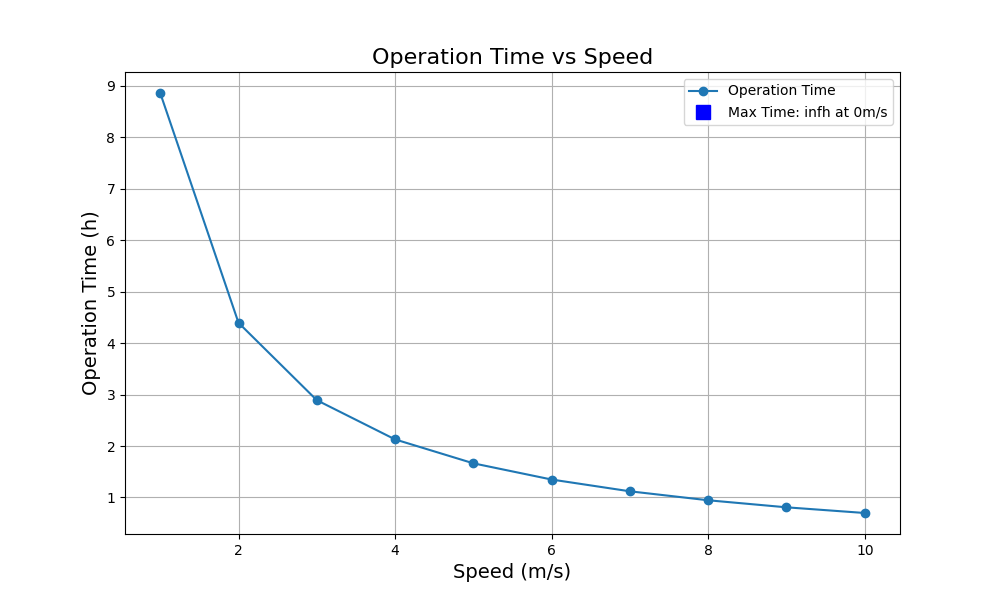
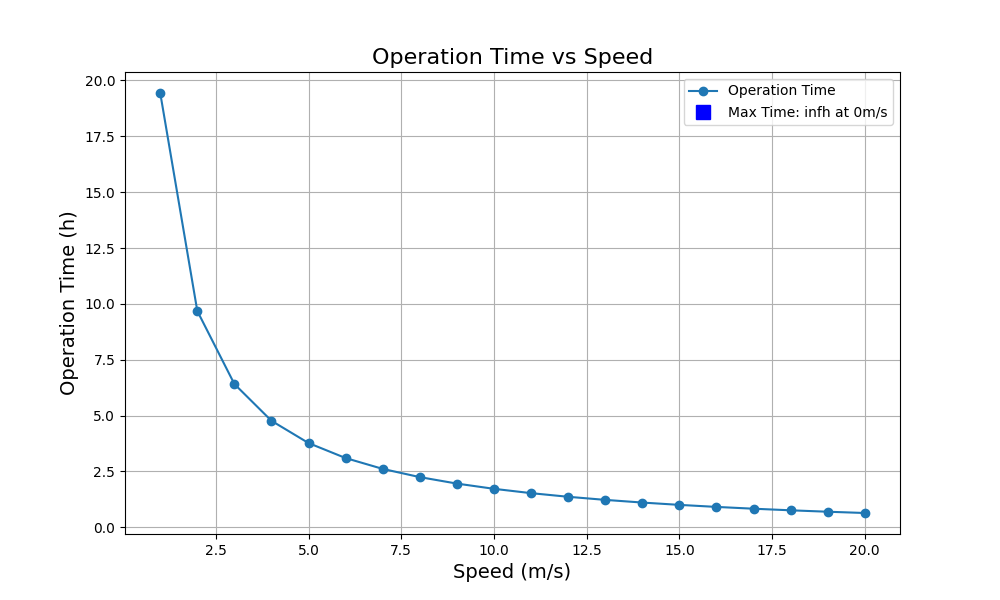
update

diff --git a/index.html b/index.html
@@ -26,8 +26,8 @@
                 </div>
             </fieldset>
             <div>
-                <label class="block text-sm font-medium text-gray-700">Pedaling Force (N):</label>
-                <input type="number" name="pedaling_force" step="0.1" required class="mt-1 block w-full px-3 py-2 border border-gray-300 rounded-md shadow-sm focus:outline-none focus:ring-indigo-500 focus:border-indigo-500">
+                <label class="block text-sm font-medium text-gray-700">Pedaling Power (W):</label>
+                <input type="number" name="pedaling_power" step="0.1" required class="mt-1 block w-full px-3 py-2 border border-gray-300 rounded-md shadow-sm focus:outline-none focus:ring-indigo-500 focus:border-indigo-500">
             </div>
             <div>
                 <label class="block text-sm font-medium text-gray-700">Gradient (%):</label>

diff --git a/bike.py b/bike.py
@@ -2,12 +2,12 @@ import math
 import os
 
 import matplotlib.pyplot as plt
-from math import cos, sin, degrees
+from math import cos, sin
 
 
 class BikeSimulator:
 
-    def __init__(self, mass, wheel_radius, mu_s_wheel, mu_k_skis, mu_k_wheel, max_motor_power, pedaling_force,
+    def __init__(self, mass, wheel_radius, mu_s_wheel, mu_k_skis, mu_k_wheel, max_motor_power, pedaling_power,
                  battery_voltage, battery_capacity_ah, drag_coefficient, frontal_area, air_density, rolling_resistance,
                  gradient, speed):
         self.mass = mass + 20
@@ -16,7 +16,7 @@ class BikeSimulator:
         self.mu_k_skis = mu_k_skis
         self.mu_k_wheel = mu_k_wheel
         self.max_motor_power = max_motor_power
-        self.pedaling_force = pedaling_force
+        self.pedaling_power = pedaling_power
         self.battery_voltage = battery_voltage
         self.battery_capacity_ah = battery_capacity_ah
         self.drag_coefficient = drag_coefficient
@@ -32,6 +32,7 @@ class BikeSimulator:
         self.motor_efficiencies = []
         self.messages = []
         self.gradient = gradient
+        self.gear_ratio = 4.59
 
     def determine_bike_state(self, speed, force, max_static_friction, max_battery_force, pedaling_force, mode, state):
         motor_force = 0
@@ -91,43 +92,40 @@ class BikeSimulator:
             gravity_force = self.mass * self.g * sin(self.angle)
             force = gravity_force + rolling_resistance_force + ski_friction
             torque = force * self.wheel_radius
+            motor_torque = torque / self.gear_ratio
 
-            if speed != 0:
-                max_battery_force = self.max_motor_power / speed
+            max_angular_speed = 2 * 3.1416 * 470 / 60
+            max_torque = self.max_motor_power / max_angular_speed
+
+            max_battery_force = (max_torque * self.gear_ratio) / self.wheel_radius
+
+            if speed > 0:
+                pedaling_force = (pedaling_power / speed) * self.gear_ratio
             else:
-                max_battery_force = float('inf')
+                pedaling_force = 0
 
-            motor_force, total_force = self.determine_bike_state(speed, force, max_static_friction,
-                                                                 max_battery_force,
-                                                                 self.pedaling_force, mode,
+            motor_force, total_force = self.determine_bike_state(speed, force, max_static_friction,max_battery_force,
+                                                                 pedaling_force, mode,
                                                                  'rest')
 
             if self.speed == speed:
-                self.log_initial_stats(max_static_friction, force, torque, motor_force)
-            self.print_initial_stats(max_static_friction, force, torque, motor_force)
+                self.log_initial_stats(max_static_friction, force, motor_torque, motor_force)
+            self.print_initial_stats(max_static_friction, force, motor_torque, motor_force)
+
             if force < 0:
                 print("Bike does not need any additional force to move")
 
             if force <= total_force:
                 drag_force = 0.5 * self.drag_coefficient * self.air_density * self.frontal_area * speed ** 2
                 force = self.mass * self.g * sin(self.angle) + rolling_resistance_force + ski_friction + drag_force
-                motor_force, total_force = self.determine_bike_state(speed, force, max_static_friction,
-                                                                     max_battery_force,
-                                                                     self.pedaling_force, mode, 'motion')
+                motor_force, total_force = self.determine_bike_state(speed, force, max_static_friction, max_battery_force,
+                                                                     pedaling_force, mode, 'motion')
 
-                # Convert linear speed (m/s) to angular speed (RPM)
-                wheel_circumference = 2 * 3.1416 * self.wheel_radius
-                rpm = (speed / wheel_circumference) * 60
-                if mode in ['pedal', 'both']:
-                    pedaling_torque = self.pedaling_force * self.wheel_radius
-                    pedaling_power = pedaling_torque * rpm * (2 * 3.1416 / 60)  # Convert to watts
-
-                motor_torque = motor_force * self.wheel_radius
-                mechanical_power = motor_torque * rpm * (2 * 3.1416 / 60)
+                angular_speed_motor = speed / self.wheel_radius
+                rpm = angular_speed_motor * 60 / (2 * 3.1416)
+                motor_torque = (motor_force * self.wheel_radius) / self.gear_ratio
+                mechanical_power = motor_torque * angular_speed_motor
                 electrical_power = mechanical_power / motor_efficiency
-                # if electrical_power > self.max_motor_power:
-                #     electrical_power = self.max_motor_power
-                #     motor_efficiency = max(0, motor_efficiency - 0.1)
 
                 total_power = pedaling_power + mechanical_power
 
@@ -144,16 +142,15 @@ class BikeSimulator:
             if speed != 0:
                 if electrical_power <= 1000:
                     battery_range = operation_time * speed * 3.6
-                    #battery_range = operation_time * (speed * 3.6)
 
             else:
                 battery_range = float('inf')
             if self.speed == speed:
-                self.log_stats(force, torque, motor_force, total_force, electrical_power, rpm, pedaling_power,
+                self.log_stats(force, motor_torque, motor_force, total_force, electrical_power, rpm, pedaling_power,
                                total_power,speed)
                 self.log_battery_stats(operation_time, battery_range, recovered_energy_watt_hours)
                 self.print_stats(normal_force, max_static_friction, drag_force, rolling_resistance_force, force,
-                                 torque, motor_force, total_force, electrical_power, rpm, total_power, pedaling_power,speed)
+                                 motor_torque, motor_force, total_force, electrical_power, rpm, total_power, pedaling_power,speed)
                 self.print_battery_stats(operation_time, battery_range, recovered_energy_watt_hours)
 
             self.motor_powers.append(electrical_power)

diff --git a/app.py b/app.py
@@ -14,7 +14,7 @@ def simulate():
     # Extract form data
     mass = float(request.form['mass'])
     terrain = request.form['terrain']
-    pedaling_force = float(request.form['pedaling_force'])
+    pedaling_power = float(request.form['pedaling_power'])
     gradient = float(request.form['gradient'])
     mode = request.form['mode']
     speed = int(request.form['speed'])
@@ -25,12 +25,12 @@ def simulate():
     # Create BikeSimulator instance
     simulator = BikeSimulator(
         mass=mass,
-        wheel_radius=0.6604,
+        wheel_radius=0.33,
         mu_s_wheel=mu_s_wheel,
         mu_k_skis=mu_k_skis,
         mu_k_wheel=mu_k_wheel,
         max_motor_power=1000,
-        pedaling_force=pedaling_force,
+        pedaling_power=pedaling_power,
         battery_voltage=48,
         battery_capacity_ah=13,
         drag_coefficient=0.5,
@@ -130,5 +130,5 @@ def determine_terrain_friction(terrain):
 
 
 if __name__ == '__main__':
-    # app.run(host='0.0.0.0', debug=True)
+    #app.run(host='0.0.0.0', debug=True)
     app.run(debug=True)
